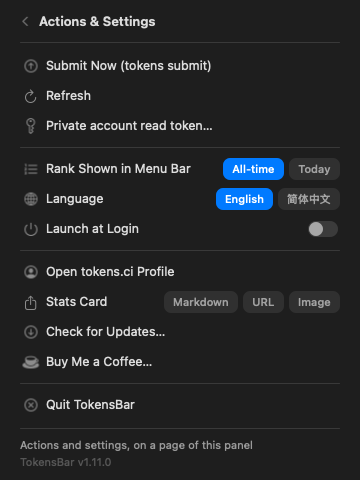
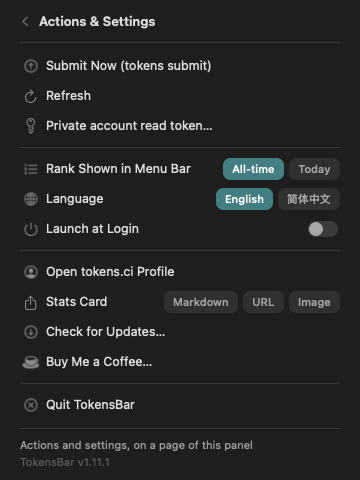
docs: refresh README screenshots from green v1.11.1 release

Changed region(s): [[0.5806, 0.3125, 0.7944, 0.4375], [0.275, 0.9375, 0.3056, 0.9688]]

diff --git a/docs/SCREENSHOTS.md b/docs/SCREENSHOTS.md
@@ -1,16 +1,16 @@
 # README screenshot provenance
 
-The English and Chinese READMEs use native AppKit offscreen renders of the published **TokensBar v1.11.0 (build 17)** app. They are not design mockups. The unmodified release executable draws the same panel, actions page, model chart and contributions views through its existing diagnostic PNG commands.
+The English and Chinese READMEs use native AppKit offscreen renders of the published **TokensBar v1.11.1 (build 18)** app. They are not design mockups. The unmodified release executable draws the same panel, actions page, model chart and contributions views through its existing diagnostic PNG commands.
 
 The renders use synthetic `demo-user` profile, leaderboard and CLI data. No real account, login, read token, Keychain credential or production API request is used. The diagnostic renderer supplies a fixed backing surface instead of the live popover's translucent material; these images are not desktop screen captures or interactive acceptance tests.
 
 ## Current images
 
-[Successful rendering run](https://github.com/lucaisgrowing/tokens-menubar/actions/runs/40480548974) — 2026-10-27, macOS 26.6.2 (25G83).
+[Successful rendering run](https://github.com/lucaisgrowing/tokens-menubar/actions/runs/40484684242) — 2026-10-27, macOS 26.6.2 (25G83).
 
-- Source: the `TokensBar.app.zip` asset from the [v1.11.0 release](https://github.com/lucaisgrowing/tokens-menubar/releases/tag/v1.11.0), downloaded and checked against the release's `SHA256SUMS.txt` before extraction.
-- Bundle version checked: `1.11.0`; strict ad-hoc signature verification passed before rendering.
[1 lines of base64/hex data omitted]
+- Source: the `TokensBar.app.zip` asset from the [v1.11.1 release](https://github.com/lucaisgrowing/tokens-menubar/releases/tag/v1.11.1), downloaded and checked against the release's `SHA256SUMS.txt` before extraction.
+- Bundle version checked: `1.11.1`; strict ad-hoc signature verification passed before rendering.
[1 lines of base64/hex data omitted]
 - English images: `docs/*.png` in the table below. Chinese images: the matching names under `docs/zh/`.
 
 | File | View | Native PNG dimensions |
@@ -23,14 +23,14 @@ The renders use synthetic `demo-user` profile, leaderboard and CLI data. No real
 | `chart-lifetime-cost.png` | Lifetime models by cost, dark | 380 × 374 |
 | `contributions.png` | Annual contributions, light | 748 × 216 |
 
-All 14 PNGs were opened for visual review after download. The main panel and actions page cover both appearances; the chart examples deliberately illustrate different periods/metrics and appearances. The Chinese README links to Chinese UI renders rather than reusing the English UI images. The icon and donation QR images were unchanged because their source assets did not change in this release.
+All 14 README PNGs were opened for visual review after download. The restored app accent is the original deep-green palette (sRGB #2E676B light / #427E82 dark), no longer the macOS system accent. Small foreground accents are lifted in dark mode for contrast; semantic success/error and model-category colors are intentionally unchanged. Additional native submit-hover, informational-state, share-card and popover-probe renders were reviewed with the artifact; those are validation images, not README replacements. The main panel and actions page cover both appearances; the chart examples deliberately illustrate different periods/metrics and appearances. The Chinese README links to Chinese UI renders rather than reusing the English UI images. The icon and donation QR images were unchanged because their source assets did not change in this release.
 
 ## Reproduce for a release
 
 Run the [README snapshots workflow](../.github/workflows/readme-snapshots.yml) with a published release tag:
 
 ```sh
-gh workflow run readme-snapshots.yml --ref main -f release=v1.11.0
+gh workflow run readme-snapshots.yml --ref main -f release=v1.11.1
 ```
 
 The workflow downloads the existing release; it does not rebuild, retag or publish it. On a disposable macOS runner, [`Tools/render-readme-snapshots.sh`](../Tools/render-readme-snapshots.sh) starts the loopback-only [`readme-fixture-server.py`](../Tools/readme-fixture-server.py), installs a temporary synthetic `tokens submit --dry-run` responder, and invokes the released app's `--panel-png`, `--chart-png` and `--contrib-png` commands in each language. It checks all PNGs exist and records their dimensions, macOS version, app version and executable digest in the artifact. Temporary config and CLI files are removed on exit; the script refuses to replace pre-existing ones. Run it only on a disposable runner, not a personal Mac.
@@ -39,4 +39,4 @@ Download `TokensBar-readme-snapshots` from the completed workflow, inspect every
 
 ## 中文说明
 
-这 14 张图片由已发布的 1.11.0 原生 App 在 macOS 上离屏渲染，使用虚构的 `demo-user` API／CLI 数据；不是 Linux 近似图，也没有使用真实账号、钥匙串令牌或线上 API。诊断模式以固定底色代替实际弹层材质。中英文图片分别生成，浅色／深色主面板与操作页、两种模型图表和贡献图均已逐张检查。它们验证的是实际二进制的静态渲染，不代替真实账号、钥匙串、CLI 和界面交互的人工验收。以后更新版本时，可运行上述工作流、检查并替换图片，同时更新 README 的版本说明和本记录。
+这 14 张图片由已发布的 1.11.1 原生 App 在 macOS 上离屏渲染，使用虚构的 `demo-user` API／CLI 数据；不是 Linux 近似图，也没有使用真实账号、钥匙串令牌或线上 API。诊断模式以固定底色代替实际弹层材质。中英文图片分别生成，浅色／深色主面板与操作页、两种模型图表和贡献图均已逐张检查。按钮、高亮与活动条已恢复原版墨绿／深绿，不再跟随系统蓝色；模型分类色与成功／错误状态色保持原有语义。另外检查了提交悬停、信息状态、战绩卡和原生弹层探针图。它们验证的是实际二进制的静态渲染，不代替真实账号、钥匙串、CLI 和界面交互的人工验收。以后更新版本时，可运行上述工作流、检查并替换图片，同时更新 README 的版本说明和本记录。

diff --git a/README.md b/README.md
@@ -26,6 +26,9 @@ Plain Swift, compiled with `swiftc`. No Xcode project, no dependencies beyond sy
 ## What's new in 1.11.1
 
 - Restore the original deep-green buttons and highlights, independent of the macOS system accent color; preserve light/dark styling, with more legible small green text in dark mode.
+
+The following improvements from 1.11.0 are retained:
+
 - Polish the existing teal interface without replacing its layout: a 360pt panel, cleaner spacing and cards, clearer progress bars, and the original system fonts, sizes and weights.
 - Support private accounts with an optional read token stored in macOS Keychain, sent only to the configured HTTPS profile endpoint.
 - Keep valid data visible when refreshes fail, distinguish successful fetches from refresh attempts, and explain network, authentication, not-found and rate-limit errors. API polling has a 60-second minimum (300 seconds by default).
@@ -168,7 +171,7 @@ For private accounts, create a **read token** in tokens.ci Settings, then choose
 
 ### Offline checks
 
-Run `Tests/run.sh` with Swift installed. This tests the actual Foundation parser/formatting/error helpers; it needs neither a CLI login nor a live API. The v1.11.1 macOS release workflow passed those 45 checks, universal AppKit/Security compilation, bundle metadata checks and ad-hoc signature verification. The separate README snapshot workflow renders the published binary on macOS with synthetic local data. Neither replaces interactive UI, Keychain, private-account or real-CLI testing; those checks remain manual. Use `./build.sh --universal` and `--panel-probe` when checking changes on a Mac.
+Run `Tests/run.sh` with Swift installed. This tests the actual Foundation parser/formatting/error helpers; it needs neither a CLI login nor a live API. The v1.11.1 macOS release workflow passed those 45 checks plus 10 native light/dark accent and contrast checks with a blue system preference, universal AppKit/Security compilation, bundle metadata checks and ad-hoc signature verification. The separate README snapshot workflow renders the published binary on macOS with synthetic local data. Neither replaces interactive UI, Keychain, private-account or real-CLI testing; those checks remain manual. Use `./build.sh --universal` and `--panel-probe` when checking changes on a Mac.
 
 ## Configuration
 
